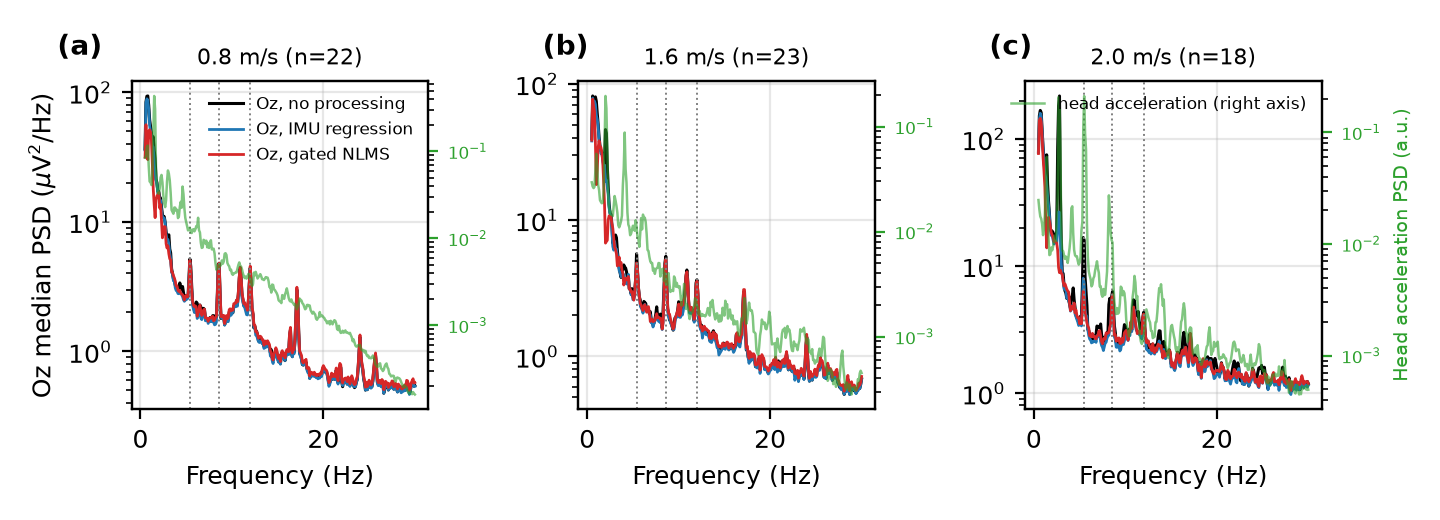
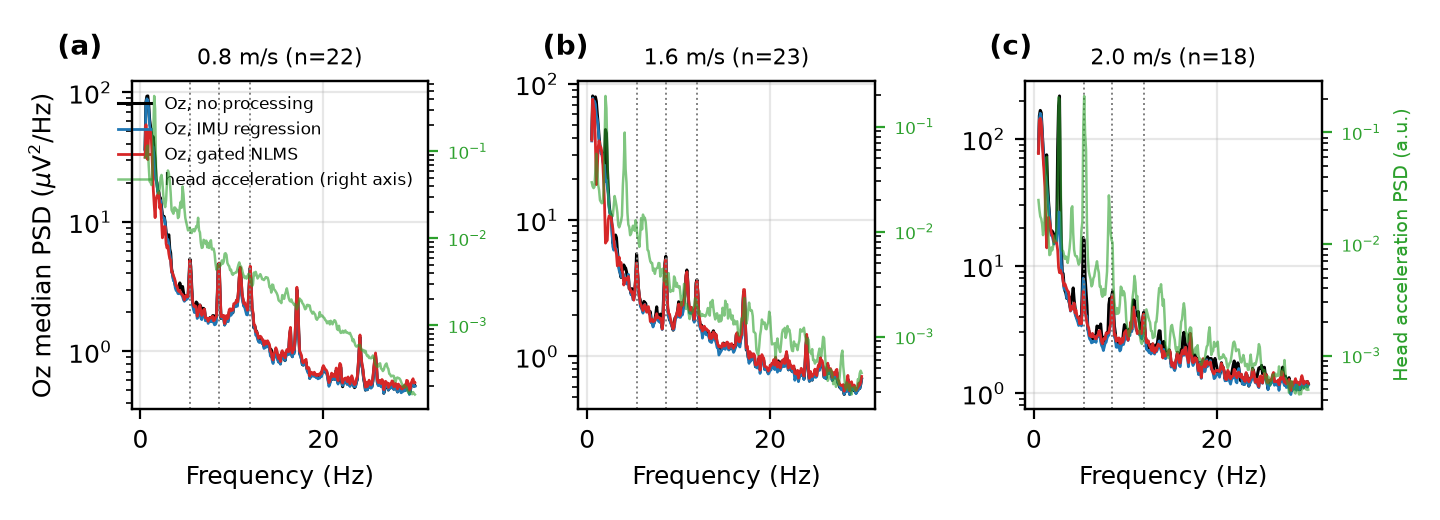
Spectra figure: merged legend

Changed region(s): [[0.0938, 0.1846, 0.2812, 0.3077], [0.6875, 0.1846, 0.9062, 0.2154], [0.0938, 0.3385, 0.2812, 0.3692]]

diff --git a/code/make_figures_en.py b/code/make_figures_en.py
@@ -147,9 +147,10 @@ for k, sp in enumerate(['0.8', '1.6', '2.0']):
     ax.set_title(f'{sp} m/s (n={len(Pe)})', fontsize=8); ax.set_xlabel('Frequency (Hz)'); ax.grid(alpha=.3)
     ax.text(-0.25 if k == 0 else -0.12, 1.08, f'({chr(97 + k)})', transform=ax.transAxes, fontsize=10, weight='bold')
     if k == 0:
-        ax.set_ylabel('Oz median PSD ($\\mu$V$^2$/Hz)'); ax.legend(fontsize=6, loc='upper right', frameon=False)
+        ax.set_ylabel('Oz median PSD ($\\mu$V$^2$/Hz)')
+        h1, l1 = ax.get_legend_handles_labels(); h2, l2 = ax2.get_legend_handles_labels()
+        ax.legend(h1 + h2, l1 + l2, fontsize=6, loc='upper right', frameon=False)
     if k == 2:
         ax2.set_ylabel('Head acceleration PSD (a.u.)', fontsize=7, color='tab:green')
-        ax2.legend(fontsize=6, loc='upper right', frameon=False)
 fig.tight_layout(); save(fig, 'fig4_spectra')
 print('figures written to', OUT)
